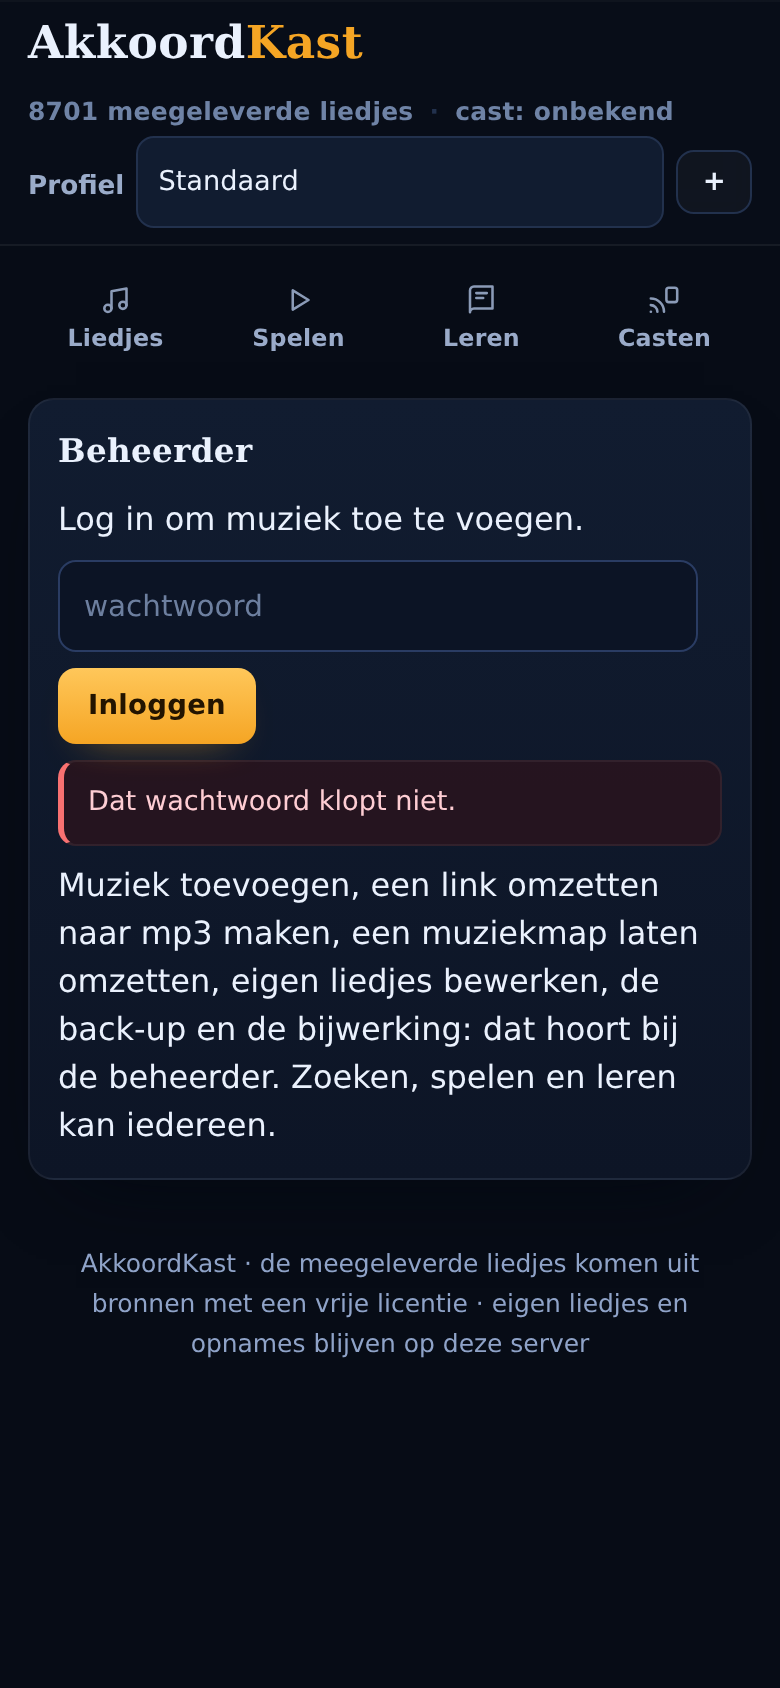
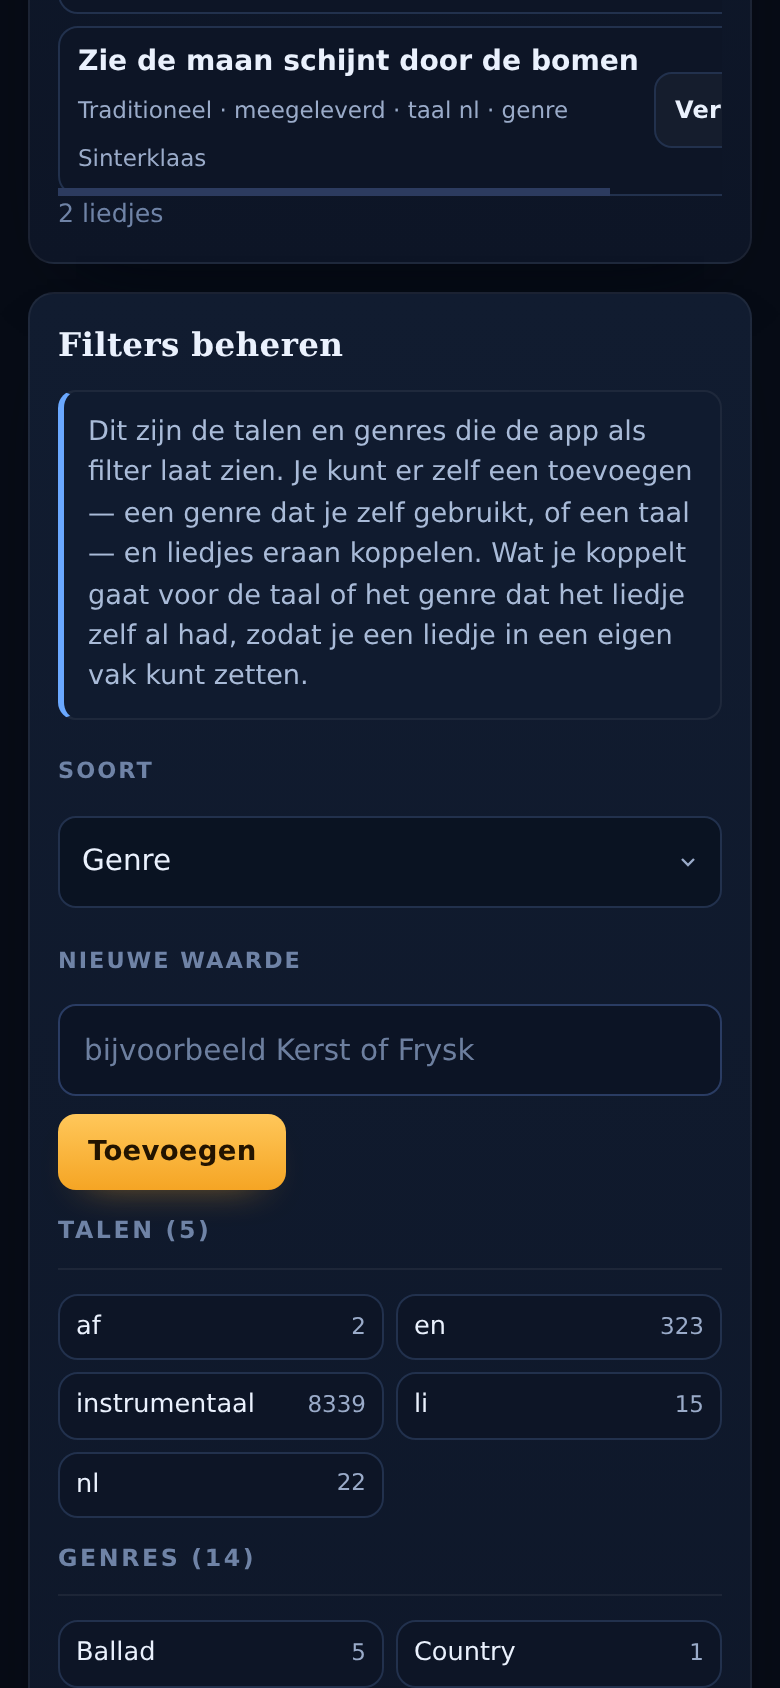
Muziek ophalen blijft werken als de NAS-map weg is, en de aanvinklijst op een breed scherm
Een gebruiker kreeg bij het ophalen van een hele artiest:

  ENOENT: no such file or directory, mkdir '/mnt/Nas/Nas-Opslag/Muziek/Gedownload'

en er gebeurde verder niets. De oorzaak zit buiten de app (de NAS-koppeling is weg of alleen-lezen),
maar de app hoort daar niet op stuk te lopen. De app kijkt nu bij het opstarten of er in de
downloadmap geschreven kan worden (map maken, schrijfrechten, een proefbestand). Kan dat niet, dan
haalt hij de muziek op in zijn eigen map (gedownload naast de gegevens) en zegt hij dat in de app
zelf: bij Muziekmappen en bij het ophalen, met de melding van het systeem erbij en de opdracht om de
NAS opnieuw te koppelen (deploy/proxmox/nas-koppelen.sh). De gevraagde map blijft in het antwoord
staan (download.gevraagd) zodat je ziet wat er aan de hand is, en er staat een regel in het
serverlogboek.

Tweede fout uit dezelfde schermafbeelding: op een breed scherm werden de liedjesregels in de
aanvinklijst van Filters beheren in elkaar gedrukt. Het aanvinkvakje kreeg de gewone
formulieropmaak van de app (breedte 100%) en werd 957 bij 46 pixels, waardoor de titel naar de
rechterrand verdween en er een schuifbalk verscheen. Het vlakje is nu 16 bij 16 (met min-width en
min-height op nul, want de app zet ook een minimumhoogte op invoervelden), en de keuzelijst en het
zoekveld zijn op een breed scherm niet meer onnodig breed.

Bewijs: test/downloadmap.test.js start de app met een onbruikbare downloadmap en controleert dat
[…]

diff --git a/server.js b/server.js
@@ -34,7 +34,7 @@ const FFMPEG = process.env.FFMPEG || 'ffmpeg';
 const CAST_HELPER = path.join(__dirname, 'scripts', 'cast-helper.py');
 const EIGEN_START = 900000;
 const GESTART = new Date().toISOString();
-const VERSIE = '1.12';
+const VERSIE = '1.12.1';
 // Een update-script binnen de container mag alleen als het er echt staat en
 // uitvoerbaar is; standaard is dat niet zo, want bijwerken hoort op de host te
 // gebeuren (daar zit pct en systemctl).
@@ -652,7 +652,13 @@ function weergave(lied, opties) {
     beheerProfiel: !!o.beheerProfiel,
     // Waar een opgehaald mp3-bestand terechtkomt (de app laat dat pad zien bij het plakken
     // van een link).
-    download: { map: DOWNLOAD_DIR, ytdlp: OPHAAL.ytdlp },
+    download: {
+      map: DOWNLOAD_DIR,
+      ytdlp: OPHAAL.ytdlp,
+      gevraagd: DOWNLOAD_DIR_GEVRAAGD,
+      terugval: !!DOWNLOAD_TERUGVAL,
+      fout: DOWNLOAD_TERUGVAL ? DOWNLOAD_TERUGVAL.fout : ''
+    },
     muziek: muziekBeeld(lied),
     video: videoBeeld(lied),
     audio: {
@@ -1361,8 +1367,39 @@ const STANDAARD_MUZIEKMAP = String(process.env.MUSIC_DIR || '').trim();
 // Waar een opgehaald mp3-bestand komt te staan. Bij voorkeur in de muziekmap zelf, in een
 // eigen ondermap, zodat de app het meteen kan vinden en afspelen. Is er geen muziekmap
 // bekend, dan komt het in de map met de gegevens van de app.
-const DOWNLOAD_DIR = path.resolve(String(process.env.DOWNLOAD_DIR || '').trim() ||
+const DOWNLOAD_DIR_GEVRAAGD = path.resolve(String(process.env.DOWNLOAD_DIR || '').trim() ||
   (STANDAARD_MUZIEKMAP ? path.join(STANDAARD_MUZIEKMAP, 'Gedownload') : path.join(DATA_DIR, 'gedownload')));
+
+// Kan er in deze map geschreven worden? Een NAS-koppeling wil nog weleens verdwijnen (storing,
+// herstart, rechten) en dan is de bovenliggende map er niet meer; zonder deze proef klapte de app
+// er met een rauwe foutmelding uit zodra iemand muziek wilde ophalen.
+function mapSchrijfFout(pad) {
+  try {
+    fs.mkdirSync(pad, { recursive: true });
+    fs.accessSync(pad, fs.constants.W_OK);
+    const proef = fs.mkdtempSync(path.join(pad, '.schrijfproef-'));
+    fs.rmSync(proef, { recursive: true, force: true });
+    return '';
+  } catch (e) {
+    return e && e.message ? e.message : String(e);
+  }
+}
+
+// Is de gevraagde map onbruikbaar, dan halen we de muziek op in de eigen map van de app. Zo blijft
+// de app werken, en de app zegt er zelf bij waar de muziek dan terechtkomt.
+var DOWNLOAD_TERUGVAL = null;
+const DOWNLOAD_DIR = (function () {
+  const fout = mapSchrijfFout(DOWNLOAD_DIR_GEVRAAGD);
+  if (!fout) return DOWNLOAD_DIR_GEVRAAGD;
+  const nood = path.join(DATA_DIR, 'gedownload');
+  if (nood !== DOWNLOAD_DIR_GEVRAAGD && !mapSchrijfFout(nood)) {
+    console.warn('LET OP: de map ' + DOWNLOAD_DIR_GEVRAAGD + ' is niet bereikbaar (' + fout +
+      '). Nieuwe muziek komt in ' + nood + ' terecht. Koppel de NAS opnieuw met deploy/proxmox/nas-koppelen.sh.');
+    DOWNLOAD_TERUGVAL = { gevraagd: DOWNLOAD_DIR_GEVRAAGD, map: nood, fout };
+    return nood;
+  }
+  return DOWNLOAD_DIR_GEVRAAGD;
+})();
 
 const OPHAAL = downloader.maakDownloader({ map: DOWNLOAD_DIR, ytdlp: process.env.YTDLP || 'yt-dlp' });
 
@@ -1524,6 +1561,9 @@ function ophaalBeeld(liedjeId, opties) {
   }
   return {
     map: DOWNLOAD_DIR,
+    gevraagd: DOWNLOAD_DIR_GEVRAAGD,
+    terugval: !!DOWNLOAD_TERUGVAL,
+    terugvalFout: DOWNLOAD_TERUGVAL ? DOWNLOAD_TERUGVAL.fout : '',
     ytdlp: OPHAAL.ytdlp,
     status,
     procent: vanDitLiedje ? stand.procent : 0,
@@ -1773,7 +1813,13 @@ function mappenBeeld() {
   return {
     mappen,
     standaard: STANDAARD_MUZIEKMAP,
-    voorstel: standaardPad && !mappen.some(m => m.pad === standaardPad) ? standaardPad : ''
+    voorstel: standaardPad && !mappen.some(m => m.pad === standaardPad) ? standaardPad : '',
+    download: {
+      map: DOWNLOAD_DIR,
+      gevraagd: DOWNLOAD_DIR_GEVRAAGD,
+      terugval: !!DOWNLOAD_TERUGVAL,
+      fout: DOWNLOAD_TERUGVAL ? DOWNLOAD_TERUGVAL.fout : ''
+    }
   };
 }
 

diff --git a/test/downloadmap.test.js b/test/downloadmap.test.js
@@ -1,0 +1,58 @@
+'use strict';
+// De map waarin opgehaalde muziek terechtkomt. Valt de NAS-koppeling weg (of is de map er niet
+// meer), dan hoort de app niet met een rauwe systeemfout te stoppen: hij hoort de muziek in zijn
+// eigen map te zetten en er zelf bij te zeggen waar. Dit is de fout die een gebruiker zag:
+//   ENOENT: no such file or directory, mkdir '/mnt/Nas/Nas-Opslag/Muziek/Gedownload'
+const test = require('node:test');
+const assert = require('node:assert');
+const fs = require('fs');
+const path = require('path');
+const hulp = require('./hulp');
+
+const GEVRAAGD = '/dev/null/Gedownload';
+
+test('een onbereikbare downloadmap: de app valt terug en zegt waar de muziek komt', async () => {
+  process.env.DOWNLOAD_DIR = GEVRAAGD;
+  const omgeving = await hulp.start();
+  try {
+    const baas = await hulp.alsBeheerder(omgeving.basis, 'proefwachtwoord-downloadmap');
+    const mappen = await baas.haal('/api/mappen');
+    assert.equal(mappen.status, 200);
+    const dl = mappen.data.download || {};
+    assert.equal(dl.terugval, true, 'de app hoort te melden dat hij terugvalt');
+    assert.equal(dl.gevraagd, GEVRAAGD, 'de gevraagde map hoort in het antwoord te staan');
+    assert.notEqual(dl.map, GEVRAAGD, 'er hoort een andere map gebruikt te worden');
+    assert.ok(dl.map.endsWith(path.sep + 'gedownload'), 'de terugvalmap is de eigen map van de app: ' + dl.map);
+    assert.ok(fs.existsSync(dl.map), 'de terugvalmap hoort te bestaan');
+    assert.match(dl.fout || '', /mkdir|ENOTDIR|ENOENT|EACCES/, 'de systeemmelding hoort bewaard te blijven');
+
+    // En de download zelf hoort te werken in die terugvalmap, zonder rauwe fout.
+    // Een reeks hoeft niet aan een bestaand liedje te hangen; hij zegt meteen waar hij gaat
+    // ophalen. (Het ophalen zelf mislukt hier — er is geen yt-dlp — maar de map hoort goed te
+    // zijn en er hoort geen rauwe systeemfout terug te komen.)
+    const gestart = await baas.post('/api/download', { reeks: true, url: 'https://www.youtube.com/@Proef', max: 1 });
+    assert.equal(gestart.status, 200);
+    assert.equal(gestart.data.map, dl.map, 'het ophalen hoort in de terugvalmap te gebeuren');
+    assert.equal(gestart.data.terugval, true);
+    assert.equal(gestart.data.gevraagd, GEVRAAGD);
+    assert.ok(!/ENOENT/.test(JSON.stringify(gestart.data)), 'geen rauwe ENOENT in het antwoord');
+  } finally {
+    delete process.env.DOWNLOAD_DIR;
+    await omgeving.stop();
+  }
+});
+
+test('de pagina zegt het zelf: waar nieuwe muziek terechtkomt, en wat je moet doen', async () => {
+  const html = fs.readFileSync(path.join(__dirname, '..', 'public', 'index.html'), 'utf8');
+  assert.match(html, /id="mappen-download"/);
+  assert.match(html, /is niet bereikbaar, dus nieuwe muziek/);
+  assert.match(html, /nas-koppelen\.sh/, 'de reparatiestap hoort erbij te staan');
+  assert.match(html, /Nieuwe muziek die je ophaalt komt in/);
+  // De melding wordt bij het laden van de mappen gevuld (en bij het starten van een reeks).
+  assert.match(html, /var waar = \$\('mappen-download'\)/);
+  const bron = fs.readFileSync(path.join(__dirname, '..', 'server.js'), 'utf8');
+  assert.match(bron, /DOWNLOAD_DIR_GEVRAAGD/);
+  assert.match(bron, /function mapSchrijfFout\(/);
+  assert.match(bron, /var DOWNLOAD_TERUGVAL = null;/);
+  assert.match(bron, /Nieuwe muziek komt in .* terecht/);
+});

diff --git a/public/index.html b/public/index.html
@@ -557,7 +557,13 @@
   .weg-lijst, .flt-koppel-lijst{margin-top:10px;display:grid;gap:6px;max-height:320px;overflow:auto}
   .weg-rij{display:flex;align-items:center;gap:8px;background:#0d1526;border:1px solid var(--lijn);
     border-radius:10px;padding:7px 9px}
-  .weg-rij .wie{flex:1;min-width:0}
+  /* Het aanvinkvakje hoort klein te blijven: de gewone formulieropmaak van de app maakt van een
+     invoerveld een breed veld, en dan vult het vinkje de hele rij en verdwijnt de liedjestitel. */
+  .weg-rij input[type=checkbox]{flex:0 0 auto;width:16px;height:16px;min-width:0;min-height:0;margin:0;accent-color:var(--amber)}
+  /* De keuzelijst en het zoekveld hoeven op een breed scherm niet de hele kaart te vullen. */
+  .flt-sectie .rij select{flex:0 1 auto;max-width:340px}
+  .flt-sectie .rij input[type=search]{flex:1 1 200px;min-width:150px;max-width:380px}
+  .weg-rij .wie{flex:1 1 auto;min-width:0}
   .weg-rij .wie b{display:block;font-size:.88rem;overflow:hidden;text-overflow:ellipsis;white-space:nowrap}
   .weg-rij .klein{font-size:.72rem;color:var(--tekst2)}
   .weg-rij .knop{padding:4px 9px;font-size:.75rem;min-height:0;flex:0 0 auto}
@@ -1424,6 +1430,7 @@
         <input id="map-nieuw" type="text" placeholder="/mnt/Nas/Nas-Opslag/Muziek" style="flex:1;min-width:240px">
         <button class="knop zacht" id="map-toevoegen">Deze map toevoegen</button>
       </div>
+      <div class="melding" id="mappen-download" hidden></div>
       <div id="mappen-lijst" class="mappen-lijst"></div>
       <label for="scan-map">Map op deze machine</label>
       <div class="rij">
@@ -3642,6 +3649,7 @@ function startReeks() {
   if ($('reeks-lijst')) $('reeks-lijst').innerHTML = '';
   if ($('reeks-stand')) $('reeks-stand').innerHTML = '';
   toonMelding('reeks-melding', 'Bezig: de nummers worden één voor één opgehaald…', 'goed');
+  laadMappen();
   api('/api/download', {
     method: 'POST', headers: { 'content-type': 'application/json' },
     body: JSON.stringify({ reeks: true, url: link, max: max })
@@ -4481,6 +4489,26 @@ function laadMappen() {
   return api('/api/mappen').then(function (d) {
     var vak = $('mappen-lijst');
     if (!vak) return;
+    // Waar opgehaalde muziek terechtkomt. Is de NAS-map weg of alleen-lezen, dan haalt de app de
+    // muziek op in zijn eigen map en zegt hij dat hier — anders zoek je je muziek kwijt.
+    var waar = $('mappen-download');
+    if (waar) {
+      var dl = d.download || {};
+      if (dl.terugval) {
+        waar.hidden = false;
+        waar.className = 'melding fout';
+        waar.textContent = 'De map ' + (dl.gevraagd || '') + ' is niet bereikbaar, dus nieuwe muziek ' +
+          'komt in ' + (dl.map || '') + ' terecht. Koppel de NAS opnieuw (op de Proxmox-host: ' +
+          'bash deploy/proxmox/nas-koppelen.sh) om die map weer te gebruiken.' +
+          (dl.fout ? ' Melding van het systeem: ' + dl.fout + '.' : '');
+      } else if (dl.map) {
+        waar.hidden = false;
+        waar.className = 'melding';
+        waar.textContent = 'Nieuwe muziek die je ophaalt komt in ' + dl.map + ' terecht.';
+      } else {
+        waar.hidden = true;
+      }
+    }
     var mappen = d.mappen || [];
     if (!mappen.length) {
       vak.innerHTML = '<div class="les-klein">Er staat nog geen muziekmap in de app. ' +

diff --git a/public/sw.js b/public/sw.js
@@ -1,7 +1,7 @@
 'use strict';
 // Service worker: alleen de app-schil cachen. /api/ en /media/ blijven altijd live,
 // zodat liedjes, audio en cast-status nooit uit een oude cache komen.
-const CACHE = 'akkoordkast-v42';
+const CACHE = 'akkoordkast-v43';
 const SCHIL = ['/', '/index.html', '/favicon.svg', '/manifest.webmanifest', '/icon-192.png', '/lib/lessen-uitgebreid.js', '/lib/stemmen.js', '/lib/ritme.js', '/lib/toonladders.js', '/lib/oefenplan.js'];
 
 self.addEventListener('install', e => {

diff --git a/CHANGELOG.md b/CHANGELOG.md
@@ -3,6 +3,24 @@
 Alles wat de app in huis heeft staat in de [README](README.md); hier staat per versie wat er
 nieuw is, wat er veranderd is en wat er gerepareerd is.
 
+## [1.12.1] — 4 november 2026
+
+### Gerepareerd
+
+- **Muziek ophalen stopte met een systeemfout zodra de NAS-map weg was.** Wie een link of een hele
+  artiest wilde ophalen kreeg `ENOENT: no such file or directory, mkdir
+  '/mnt/Nas/Nas-Opslag/Muziek/Gedownload'` en er gebeurde niets. De app kijkt nu bij het opstarten of
+  er in de downloadmap geschreven kan worden. Lukt dat niet — de koppeling is weg, de schijf is vol of
+  de map is alleen-lezen — dan haalt de app de muziek op in zijn eigen map (`gedownload` naast de
+  gegevens van de app), meldt hij dat in de app zelf (bij *Muziekmappen* en bij het ophalen), met de
+  opdracht om de NAS opnieuw te koppelen (`deploy/proxmox/nas-koppelen.sh`). Er ging voorheen niets
+  stuk aan je verzameling, maar je kon niet ophalen; nu wel.
+- **De lijst waarin je liedjes aanvinkt stond op een breed scherm in elkaar gedrukt.** Het
+  aanvinkvakje werd door de gewone formulieropmaak op ware grootte uitgerekt (bijna duizend pixels
+  breed), waardoor de liedjestitels naar de rechterrand werden geduwd en er een schuifbalk verscheen.
+  Het vlakje is nu een gewoon vinkje van 16 bij 16. De keuzelijst en het zoekveld in *Filters beheren*
+  zijn op een breed scherm ook niet meer onnodig breed.
+
 ## [1.12.0] — 4 november 2026
 
 ### Nieuw

diff --git a/README.md b/README.md
@@ -187,6 +187,14 @@ Het toevoeggereedschap zit in een **eigen profiel** (`Admin`), niet in je gewone
 | Muziekmappen toevoegen of weghalen, eigen liedjes bewerken, opnamen uploaden | beheerder |
 | Liedjes uit de app halen (eigen liedjes echt, meegeleverde verbergen) | beheerder |
 | Filters beheren: talen en genres toevoegen, weghalen en liedjes eraan koppelen | beheerder |
+
+**Waar opgehaalde muziek terechtkomt.** De app haalt muziek op in `DOWNLOAD_DIR` (standaard
+`MUSIC_DIR/Gedownload`, dus in je muziekmap — bij een NAS-koppeling bijvoorbeeld
+`/mnt/Nas/Nas-Opslag/Muziek/Gedownload`). Kan daar niet in geschreven worden — de koppeling is weg, de
+map is alleen-lezen of de schijf zit vol — dan **valt de app terug op zijn eigen map**
+(`gedownload` naast de gegevens) en zegt hij dat in de app: bij *Muziekmappen* en bij het ophalen.
+Zo blijft ophalen werken en weet je waar de muziek staat. Koppel je NAS opnieuw met
+`bash deploy/proxmox/nas-koppelen.sh` (op de Proxmox-host) om de muziekmap weer te gebruiken.
 | Back-up, wachter, bijwerken, Spotify-sleutels | beheerder |
 
 Het tabblad **Toevoegen** bestaat alleen in het profiel `Admin` (in de profielkiezer staat het als
